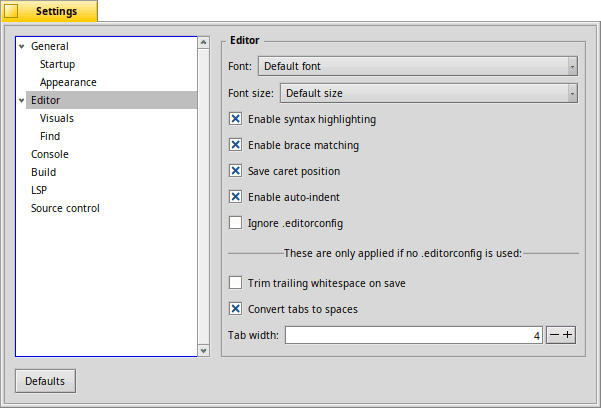
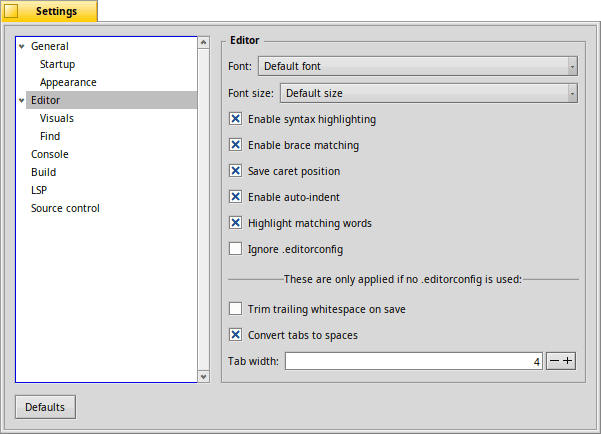
Docs: Add "Highlightig words" setting
Missed that in the previous PR…

Changed region(s): [[0.0, 0.0, 1.0, 0.5882], [0.03, 0.5882, 0.9584, 0.9706]]

diff --git a/documentation/settings-genio.html b/documentation/settings-genio.html
@@ -114,6 +114,9 @@
 <tr><td class="onelinetop"><span class="menu">Enable auto-indent</span></td>
 <td>After a linebreak, automatically indent to the same level as the previous line.</td></tr>
 
+<tr><td class="onelinetop"><span class="menu">Highlight matching words</span></td>
+<td>Double-click a word to highlight all of its occurances in the whole file.</td></tr>
+
 <tr><td class="onelinetop"><span class="menu">Ignore .editorconfig</span></td>
 <td>Opt out of code formatting by <a href="https://editorconfig.org/">EditorConfig</a> (if your project uses that).</td></tr>
 </table>

diff --git a/documentation/editor.html b/documentation/editor.html
@@ -158,7 +158,7 @@ Locked files are marked with a little lock symbol in the tab.</p>
 <a href="#"><img src="./images/up.png" style="border:none;float:right" alt="index" /></a>
 <a id="highlight" name="highlight">Highlighting words</a></h3>
 
-<p>If you double-click a word, it gets highlighted in the whole file. The vertical info scrollbar will show yellow indicators for every occurence.</p>
+<p>If you double-click a word, all of its occurances get highlighted in the whole file. The vertical info scrollbar will show yellow indicators for every occurence.</p>
 
 
 <h3>